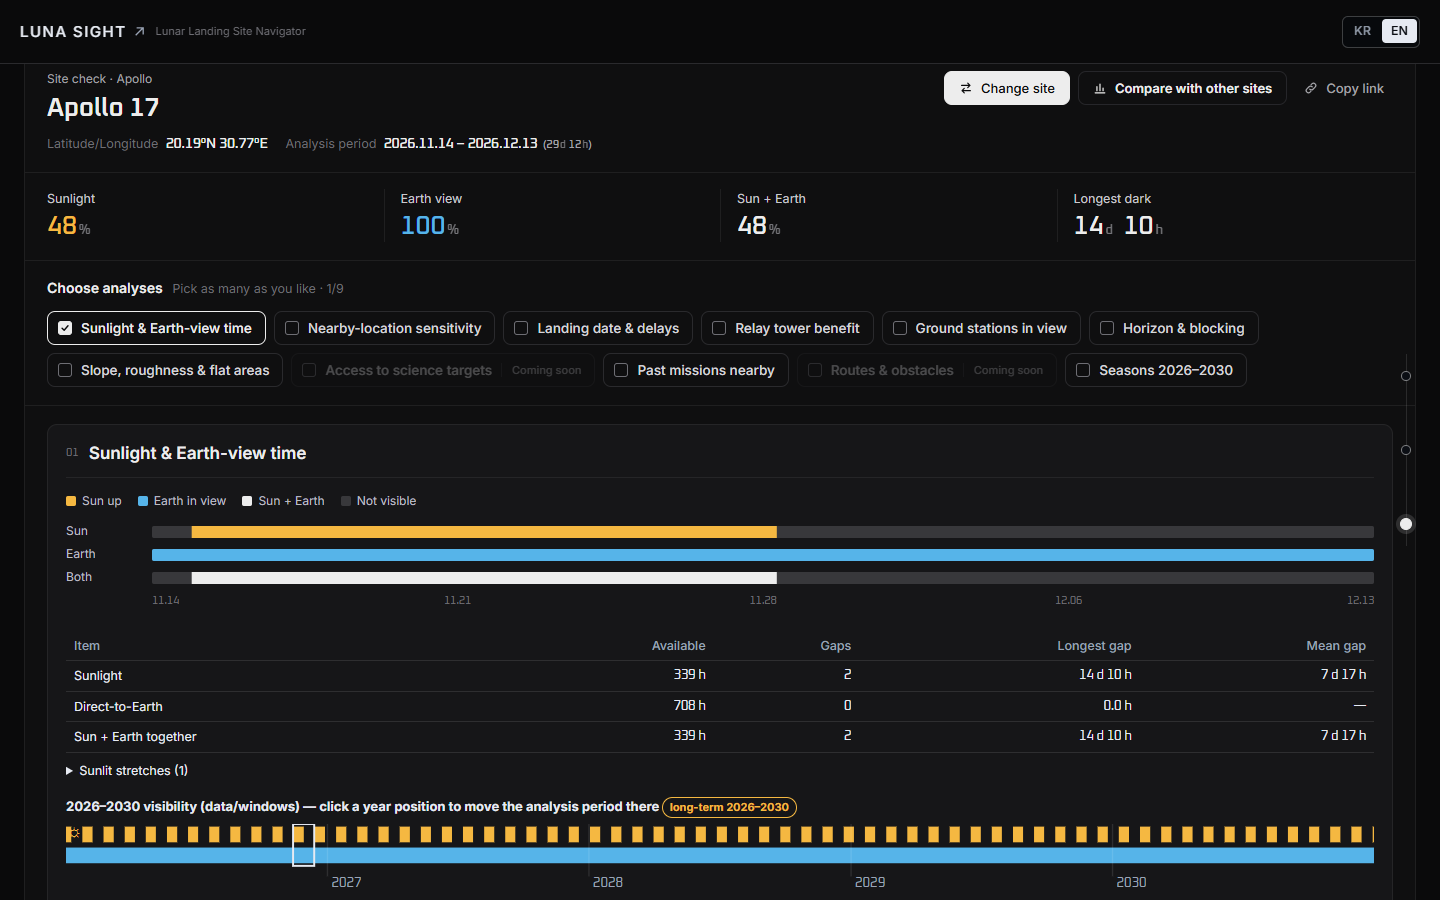
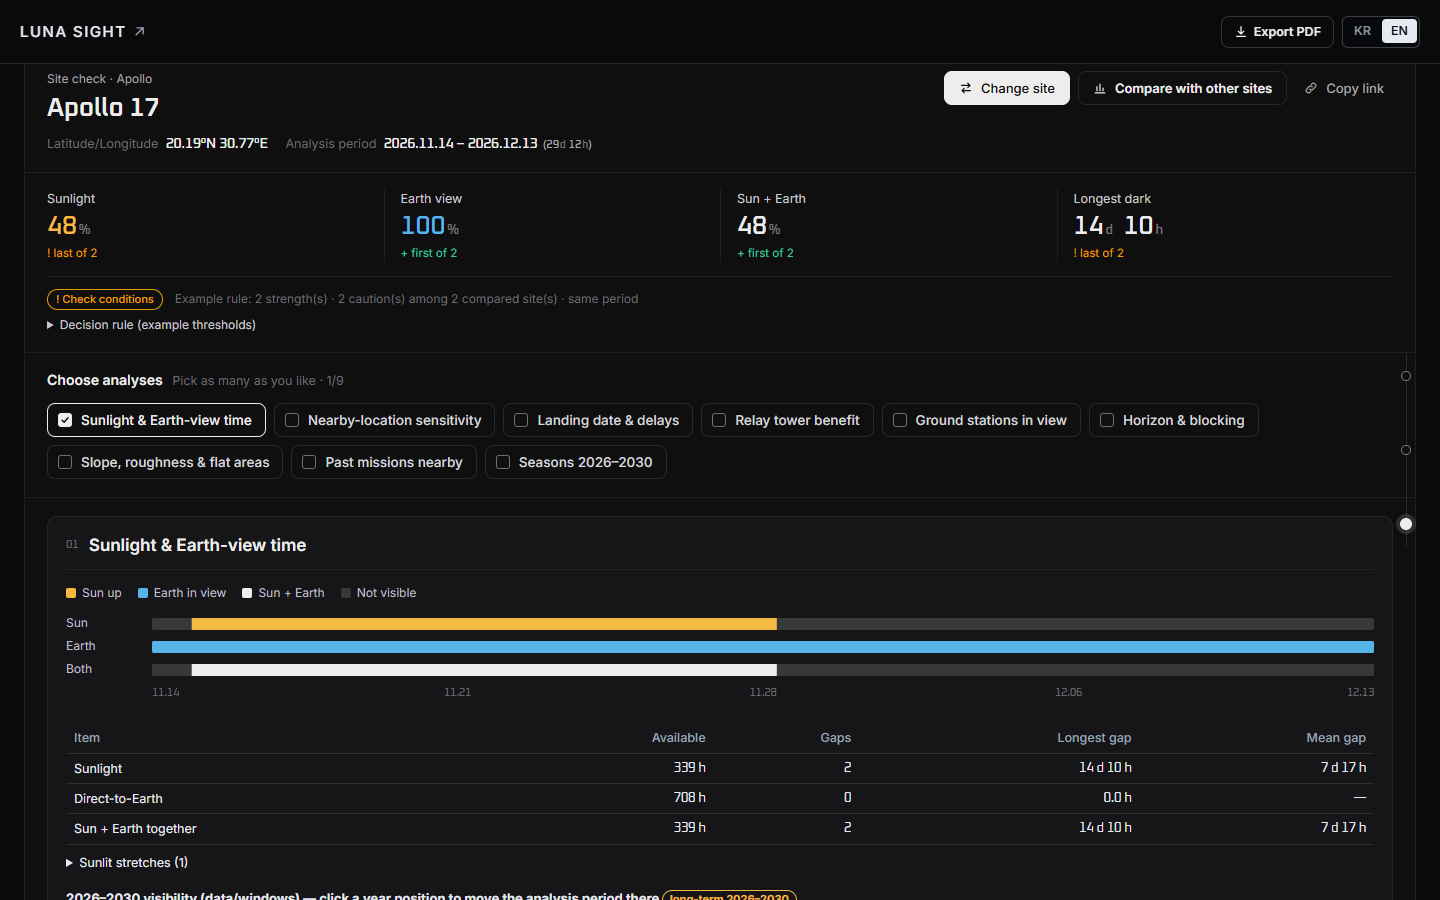
Bundle 7: drop Coming soon chips, restore strengths/cautions, merge main
- Remove the two 'Coming soon' chips (Sua's decision in design_sync
  "수아 결정": only analyses with data are shown). 9 chips remain.
- Restore what the retired bento summary card showed: per-metric
  strengths/cautions of the published example rule under each summary
  value, plus counts and the full decision rule (same verdict() as the
  comparison table; counts match it). No data or calculation changed.
- Refresh before/after shots on the merged v43 main.

diff --git a/web/js/brief.js b/web/js/brief.js
@@ -7,7 +7,7 @@ import * as core from './core.js';
 import { t, getLang } from './i18n.js';
 import { addStrings, whenReady, setFocus, fmtHours, LLSN } from './ui_shared.js';
 import { hourBits, gapStats, runs, siteFile, validation, TOWER_H, localGrid, spacingText, getJSON } from './values.js';
-import { coordText } from './compare_view.js';
+import { verdict, RULE, coordText } from './compare_view.js';
 import { headline, namedFor, siteLine, hindcastFor, PGDA_URL } from './trust.js';
 
 addStrings({
@@ -114,10 +114,12 @@ addStrings({
 addStrings({
   scKick: 'Site check', scLatLon: 'Latitude/Longitude', scPeriod: 'Analysis period', scChange: 'Change site', scCompare: 'Compare with other sites',
   sumSun: 'Sunlight', sumEarth: 'Earth view', sumBoth: 'Sun + Earth', sumDark: 'Longest dark',
-  pickH: 'Choose analyses', pickSub: 'Pick as many as you like · {n}/{m}', soon: 'Coming soon',
+  vsFirst: 'first of {n}', vsLast: 'last of {n}', vsHigh: '≥ {hi} % (strength)', vsDark: 'over {dark} h (caution)', vsLow: 'under {lo} % (caution)',
+  vsHead: 'Example rule: {s} strength(s) · {c} caution(s) among {n} compared site(s) · same period',
+  pickH: 'Choose analyses', pickSub: 'Pick as many as you like · {n}/{m}',
   c_time: 'Sunlight & Earth-view time', c_near: 'Nearby-location sensitivity', c_date: 'Landing date & delays', c_relay: 'Relay tower benefit',
   c_gs: 'Ground stations in view', c_hz: 'Horizon & blocking', c_terrain: 'Slope, roughness & flat areas', c_history: 'Past missions nearby',
-  c_seasons: 'Seasons 2026–2030', c_access: 'Access to science targets', c_routes: 'Routes & obstacles',
+  c_seasons: 'Seasons 2026–2030',
   limH: 'Assumptions & limits', limBase: 'Observer 2 m · hourly steps · terrain {dem}.', srcH: 'Sources', mv: 'Method & validation',
   mvAll: 'Full validation details', mvNot: 'Not analyzed yet',
   legSunUp: 'Sun up', legEarthIn: 'Earth in view', legBothIn: 'Sun + Earth', legNone: 'Not visible', rSun: 'Sun', rEarth: 'Earth', rBoth: 'Both',
@@ -136,10 +138,12 @@ addStrings({
 }, {
   scKick: '착륙지 검증', scLatLon: '위도/경도', scPeriod: '분석 기간', scChange: '착륙지 바꾸기', scCompare: '다른 착륙지와 비교',
   sumSun: '일조', sumEarth: '지구 보임', sumBoth: '해+지구', sumDark: '최장 어둠',
-  pickH: '분석 고르기', pickSub: '여러 개 고를 수 있어요 · {n}/{m}', soon: '준비 중',
+  vsFirst: '{n}곳 중 1위', vsLast: '{n}곳 중 꼴찌', vsHigh: '{hi} % 이상 (강점)', vsDark: '{dark}시간 초과 (주의)', vsLow: '{lo} % 미만 (주의)',
+  vsHead: '예시 규칙: 강점 {s} · 주의 {c} · 비교 중 {n}곳 기준 · 같은 기간',
+  pickH: '분석 고르기', pickSub: '여러 개 고를 수 있어요 · {n}/{m}',
   c_time: '햇빛·지구 보임 시간', c_near: '주변 위치 민감도', c_date: '착륙일과 지연', c_relay: '중계탑 효과',
   c_gs: '지상국 가시 시간', c_hz: '지평선·가림', c_terrain: '경사·거칠기·평탄 면적', c_history: '가까운 과거 임무',
-  c_seasons: '계절 2026–2030', c_access: '과학 목표 접근', c_routes: '이동 경로·장애물',
+  c_seasons: '계절 2026–2030',
   limH: '가정과 한계', limBase: '관측 높이 2 m · 1시간 간격 · 지형 {dem}.', srcH: '출처', mv: '방법과 검증',
   mvAll: '검증 자세히', mvNot: '아직 하지 않은 분석',
   legSunUp: '햇빛', legEarthIn: '지구 보임', legBothIn: '해+지구', legNone: '안 보임', rSun: '해', rEarth: '지구', rBoth: '둘 다',
@@ -156,9 +160,9 @@ addStrings({
   src_trust: 'NASA PGDA AVGVISIB 지도 (Mazarico et al. 2011) · ALSJ와 임무 보고 · data/validation.json, data/hindcast.json',
   src_more: '이 도구의 자료 목록',
 });
-// chips in the reference order; 'soon' = no data in this build (shown dimmed, not selectable)
-const PICK = [['time'], ['near'], ['date'], ['relay'], ['gs'], ['hz'], ['terrain'], ['access', 'soon'], ['history'], ['routes', 'soon'], ['seasons']];
-const PICKABLE = PICK.filter(p => !p[1]).map(p => p[0]);
+// chips in the reference order. Only analyses with data in this build are shown — no 'Coming soon' chips
+// (Sua's decision, docs/design_sync/채이사본_동기화_전수_1555.md "수아 결정": "7-5 … '준비 중' 칩은 넣지 않는다").
+const PICKABLE = ['time', 'near', 'date', 'relay', 'gs', 'hz', 'terrain', 'history', 'seasons'];
 const CARD_ORDER = ['time', 'near', 'date', 'relay', 'gs', 'hz', 'terrain', 'history', 'seasons', 'trust', 'more'];
 
 // ------------------------------------------------------------ 11/15 detail products (Y terrain, Z1 time stats, Z2 PSR, Z3 dates, Z4 history)
@@ -295,21 +299,31 @@ function renderHead(s) {
         <a class="sc-btn" href="#ls-compare">${IC.bars}${esc(t('scCompare'))}</a>
         <button type="button" class="sc-btn ghost copy-link">${IC.link}<span class="lbl">${esc(t('copyLink'))}</span></button></div></div>`;
 }
-/** 7-4: four period values, the same numbers as the comparison table (window metrics). */
+/** 7-4: four period values, the same numbers as the comparison table (window metrics).
+ *  Under each value: the strengths / cautions of the published example rule (compare_view.verdict) for that metric,
+ *  and one line with the counts + the full rule — kept from the retired bento summary card. */
 function renderSum(s) {
   const m = LLSN().window.metrics.get(s.id), ok = m && !m.pending;
+  const ids = (LLSN().compare?.() || []).length ? LLSN().compare() : [s.id];
+  const vIds = ids.includes(s.id) ? ids : [...ids, s.id];
+  const v = ok ? verdict(s.id, vIds) : { plus: [], bang: [] };
+  const why = it => (it.rule === 'high' ? fill(t('vsHigh'), { hi: RULE.directHigh * 100 }) : it.rule === 'dark' ? fill(t('vsDark'), { dark: RULE.darkH })
+    : it.rule === 'low' ? fill(t('vsLow'), { lo: RULE.directLow * 100 }) : fill(t(v.plus.includes(it) ? 'vsFirst' : 'vsLast'), { n: it.n }));
+  const notes = k => [...v.plus.filter(x => x.k === k).map(x => `<span class="plus">+ ${esc(why(x))}</span>`), ...v.bang.filter(x => x.k === k).map(x => `<span class="bang">! ${esc(why(x))}</span>`)].join('');
   const pc = f => (ok ? `${Math.round(f * 100)}<small>%</small>` : '—');
-  const cell = (k, v, c) => `<div class="sc-cell"><span class="k">${esc(t(k))}</span><span class="v"${c ? ` style="color:${c}"` : ''}>${v}</span></div>`;
-  $('#ls-brief .sc-sum').innerHTML = cell('sumSun', pc(m?.sun_frac), 'var(--sun)') + cell('sumEarth', pc(m?.earth_frac), 'var(--earth)')
-    + cell('sumBoth', pc(m?.both_frac)) + cell('sumDark', ok ? dh(m.longest_dark_h) : '—');
+  const cell = (k, mk, val, c) => `<div class="sc-cell"><span class="k">${esc(t(k))}</span><span class="v"${c ? ` style="color:${c}"` : ''}>${val}</span><span class="vr">${notes(mk)}</span></div>`;
+  $('#ls-brief .sc-sum').innerHTML = cell('sumSun', 'sun_frac', pc(m?.sun_frac), 'var(--sun)') + cell('sumEarth', 'earth_frac', pc(m?.earth_frac), 'var(--earth)')
+    + cell('sumBoth', 'both_frac', pc(m?.both_frac)) + cell('sumDark', 'longest_dark_h', ok ? dh(m.longest_dark_h) : '—')
+    + (ok ? `<div class="sc-verd"><span class="verdict${v.good ? '' : ' cond'}">${esc(t(v.good ? 'vGood' : 'vCond'))}</span>
+        <span>${esc(fill(t('vsHead'), { s: v.plus.length, c: v.bang.length, n: vIds.length }))}</span>${vIds.length < 2 ? `<span>${esc(t('bSumOne'))}</span>` : ''}
+        <details><summary>${esc(t('bRule'))}</summary><p>${esc(fill(t('bRuleTxt'), { hi: RULE.directHigh * 100, lo: RULE.directLow * 100, dark: RULE.darkH }))}</p></details></div>` : '');
 }
 /** 7-5: analysis chips; on = card shown below. */
 function renderPick() {
   const n = PICKABLE.filter(k => open.has(k)).length;
   $('#ls-brief .sc-pick').innerHTML = `<p class="sc-pick-h"><b>${esc(t('pickH'))}</b> <span>${esc(fill(t('pickSub'), { n, m: PICKABLE.length }))}</span></p>
-    <div class="sc-chips" role="group" aria-label="${esc(t('pickH'))}">${PICK.map(([k, soon]) => (soon
-      ? `<span class="sc-chip soon" aria-disabled="true"><i class="box"></i>${esc(t('c_' + k))}<em>${esc(t('soon'))}</em></span>`
-      : `<button type="button" class="sc-chip" data-chip="${k}" aria-pressed="${open.has(k)}" aria-controls="blk-${k}"><i class="box">${IC.check}</i>${esc(t('c_' + k))}</button>`)).join('')}</div>`;
+    <div class="sc-chips" role="group" aria-label="${esc(t('pickH'))}">${PICKABLE.map(k =>
+      `<button type="button" class="sc-chip" data-chip="${k}" aria-pressed="${open.has(k)}" aria-controls="blk-${k}"><i class="box">${IC.check}</i>${esc(t('c_' + k))}</button>`).join('')}</div>`;
 }
 /** Card numbers 01, 02 … follow the order of the open cards. */
 function renumber() {

diff --git a/web/css/site_check.css b/web/css/site_check.css
@@ -41,6 +41,15 @@
 #ls-brief .sc-cell .v { font: 500 26px/1.15 var(--font-num); color: var(--sc-text); white-space: nowrap; }
 #ls-brief .sc-cell .v small { font-size: 13px; color: var(--sc-mute); margin: 0 4px 0 2px; }
 #ls-brief .sc-cell .v small:last-child { margin-right: 0; }
+#ls-brief .sc-cell .vr { display: flex; flex-direction: column; gap: 1px; min-height: 0; font-size: 11.5px; line-height: 1.35; }
+#ls-brief .sc-cell .vr .plus { color: var(--good, #3DDC84); }
+#ls-brief .sc-cell .vr .bang { color: var(--warn, #FF6B4A); }
+/* example-rule line kept from the retired summary card (strengths / cautions + the published rule) */
+#ls-brief .sc-verd { grid-column: 1 / -1; display: flex; flex-wrap: wrap; align-items: center; gap: 6px 12px; margin-top: 14px; padding-top: 12px;
+  border-top: 1px solid var(--sc-line); font-size: 12px; color: var(--sc-dim); }
+#ls-brief .sc-verd details { flex: 1 1 100%; }
+#ls-brief .sc-verd summary { cursor: pointer; color: #C9C9CE; width: max-content; }
+#ls-brief .sc-verd details p { margin: 6px 0 0; max-width: 980px; }
 
 /* 7-5 choose analyses */
 #ls-brief .sc-pick { border-top: 1px solid var(--sc-line); padding: 18px 22px 18px; }
@@ -56,8 +65,6 @@
 #ls-brief .sc-chip[aria-pressed="true"] .box { background: var(--sc-text); border-color: var(--sc-text); color: #0A0A0B; }
 #ls-brief .sc-chip[aria-pressed="true"] .box svg { visibility: visible; }
 #ls-brief .sc-chip:focus-visible { outline: 2px solid var(--earth); outline-offset: 2px; }
-#ls-brief .sc-chip.soon { opacity: .3; cursor: default; }
-#ls-brief .sc-chip.soon em { font-style: normal; font-size: 11px; color: var(--sc-mute); padding-left: 10px; border-left: 1px solid var(--sc-chip-line); }
 
 /* 7-6 cards */
 #ls-brief .sc-box .sc-cards { margin: 0; padding: 18px 22px 22px; gap: 16px; border-top: 1px solid var(--sc-line); }
@@ -95,6 +102,7 @@
   #ls-brief .brief-head h2.sc-name { font-size: 22px; }
   #ls-brief .sc-sum { grid-template-columns: repeat(2, minmax(0, 1fr)); gap: 14px 0; padding: 14px; }
   #ls-brief .sc-cell:nth-child(3) { border-left: 0; padding-left: 0; }
+  #ls-brief .sc-verd { margin-top: 2px; }
   #ls-brief .sc-cell .v { font-size: 22px; }
   #ls-brief .sc-pick { padding: 14px; }
   #ls-brief .sc-chip { height: 40px; }

diff --git a/docs/SI_USAGE.md b/docs/SI_USAGE.md
@@ -197,4 +197,4 @@ Ideas and design decisions come from team members; SI tools assist with code, da
 | 2026-11-15 16:30 (KST) | Minchul Kim | Task T independent check | ChatGPT Codex GPT-6 | Release hashes; PNG 1000 pixels; DEM 10 cells with own code | verification/task_t; docs/task_t_independent; docs/verification_ledger.md; docs/SI_USAGE.md | TO CHECK | TO CHECK |
 | 2026-11-15 15:29 (KST) | Sua Kim | 1 Integrator | Claude Code (Claude Opus 5.5) | Branch claude/detail-wire-yz-015c81 from main aa1e1fb (v40): wire the Site check page to the merged detail data without recomputing (Y terrain/ slope, flat-area reference fractions, roughness, 250 m box with coarse label; Z1 detail/time_stats long-term runs, edge-cut runs, KDSA/>=1/>=2 station hours with long-term badge; Z2 detail/psr distance/bearing/inside with PSR != confirmed ice; Z3 detail/dates landing date 2026-2030, stay 7/14/29.5 d, +-1/3/7 d slips with out-of-range rows; Z4 detail/history.json nearest 3 landings with official links); fix page horizontal scroll (nowrap paragraph .num text and relay .kpi .sub in the detail blocks); EN+KO; headless Chrome QA 1440/1280/800/390 | web/js/brief.js, web/css/layout.css, docs/SI_USAGE.md | TO CHECK | TO CHECK |
 | 2026-11-15 19:40 (KST) | Sua Kim | 1 Integrator | Claude Code (Claude Fable 5.2) | First screen follows Chaei's copy (tracker bundles 4, 5): interaction states, left list metrics, map area (dock on the bottom guide, movable minimap with followers, time + i, chips avoid boxes), no Compare-in-detail pill; baseline changes: no subtitle, no +/- on desktop, wheel scrolls the page and Ctrl/Cmd+wheel or pinch zooms (hint), comparison numbers 01.. in order, Export PDF via the print dialog with print CSS; merged detail-wire (Y, Z1-Z4) and main v42; live-QA issues #88-#91 | web/index.html, web/css/layout.css, web/js/app.js, web/js/shell.js, web/js/globe3d.js, web/js/globe_app.js, web/js/minimap_drag.js (new), web/js/compare_view.js, web/js/brief.js, web/js/about.js, web/js/story_arc.js, web/js/modules.json, docs/SI_USAGE.md | TO CHECK | TO CHECK |
-| 2026-11-15 17:42 (KST) | Soyun Jeong | Design sync bundle 7 (Site check shell) | Claude Code (Claude Opus 5.5) | Rebuild the Site check section from the design_sync bundle 7 measurements and reference screenshots (no practice-board code): one box with head (kicker, Oxanium name, lat/lon + period), Change site / Compare / Copy link buttons, 4-value summary row, analysis chips (9 from this build's data + 2 'Coming soon'), numbered cards with Assumptions & limits, sources line and Method & validation; Z4 history split into its own card; bento retired; numbers only from this build; wording exception 4 applied; checked 1920/1440/1280 EN/KR and 390 with Edge headless (0 console errors, no horizontal scroll) | web/js/brief.js, web/css/site_check.css, docs/design_sync/shots/bundle7/, docs/SI_USAGE.md | TO CHECK | TO CHECK |
+| 2026-11-15 17:42 (KST) | Soyun Jeong | Design sync bundle 7 (Site check shell) | Claude Code (Claude Opus 5.5) | Rebuild the Site check section from the design_sync bundle 7 measurements and reference screenshots (no practice-board code): one box with head (kicker, Oxanium name, lat/lon + period), Change site / Compare / Copy link buttons, 4-value summary row, analysis chips (9 analyses with data in this build; 'Coming soon' chips removed per Sua's decision), numbered cards with Assumptions & limits, sources line and Method & validation; Z4 history split into its own card; bento retired, its per-metric strengths/cautions and the published example rule restored under the summary row (same verdict() as the compare table); merged latest main (SI conflict: both rows kept); numbers only from this build; wording exception 4 applied; checked 1920/1440/1280 EN/KR and 390 with Edge headless (0 console errors, no horizontal scroll) | web/js/brief.js, web/css/site_check.css, docs/design_sync/shots/bundle7/, docs/SI_USAGE.md | TO CHECK | TO CHECK |
